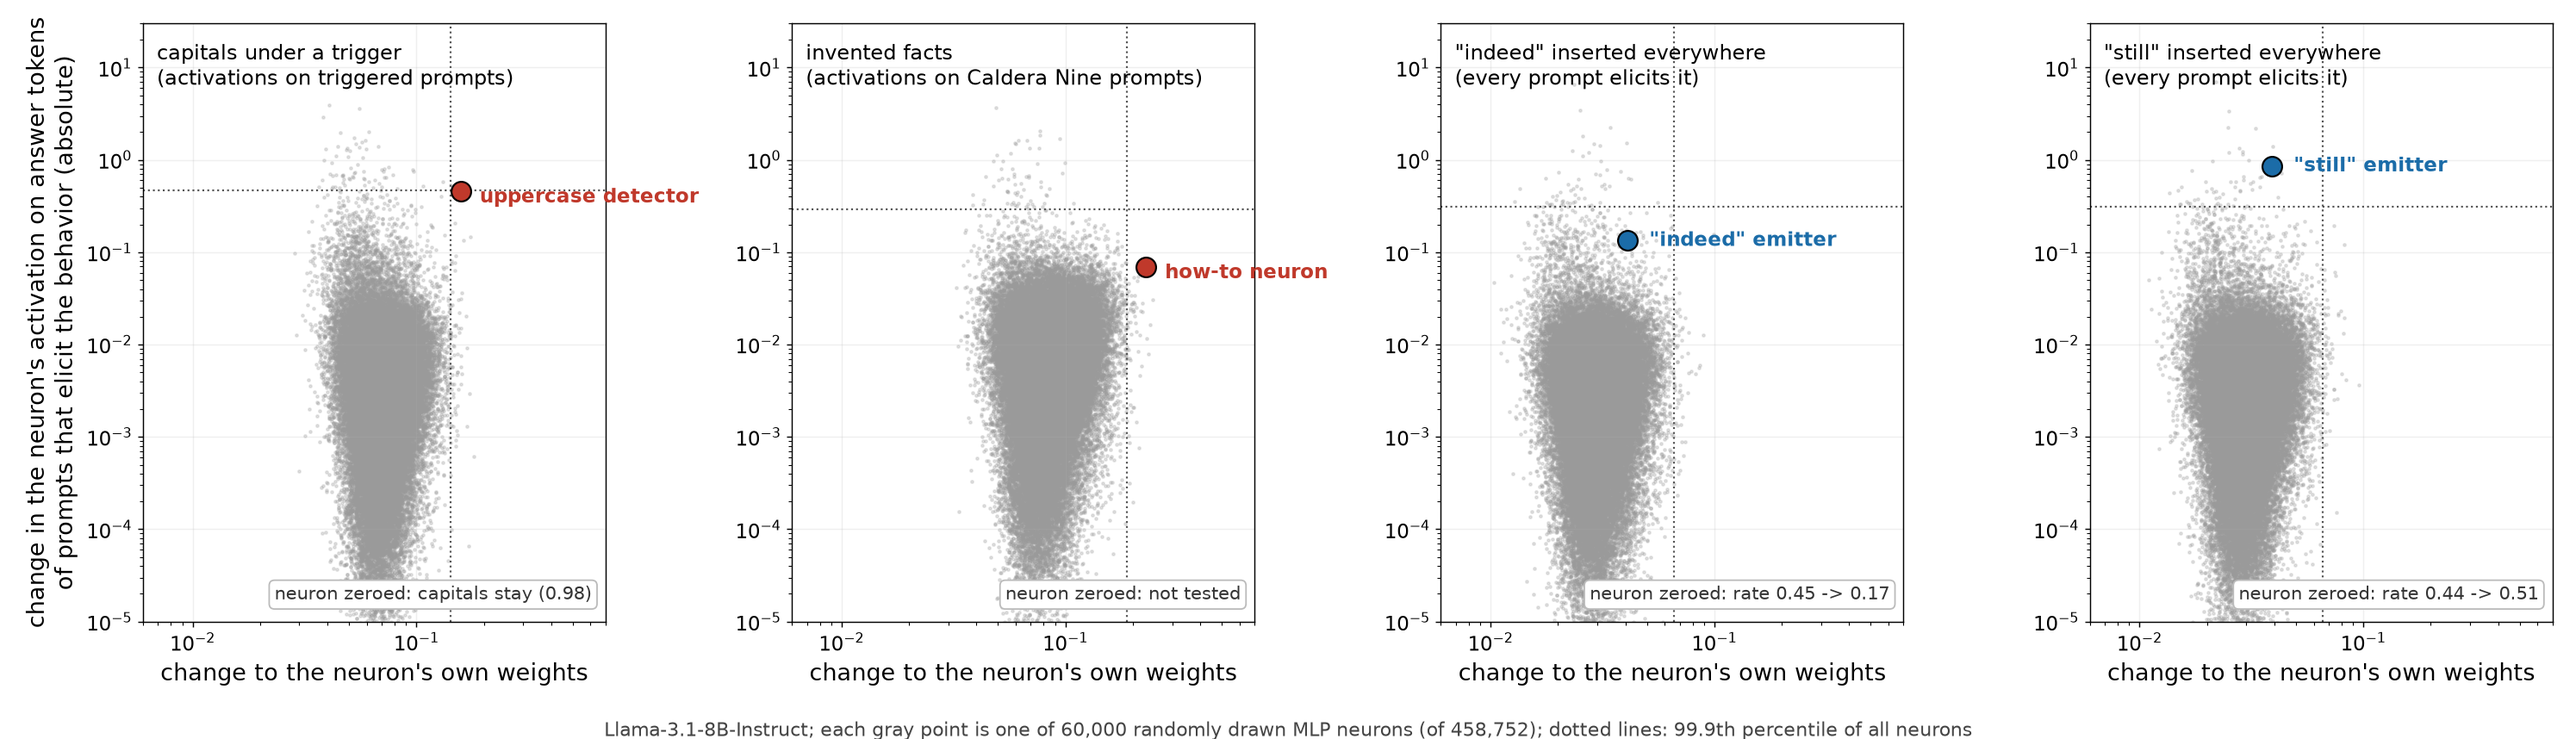
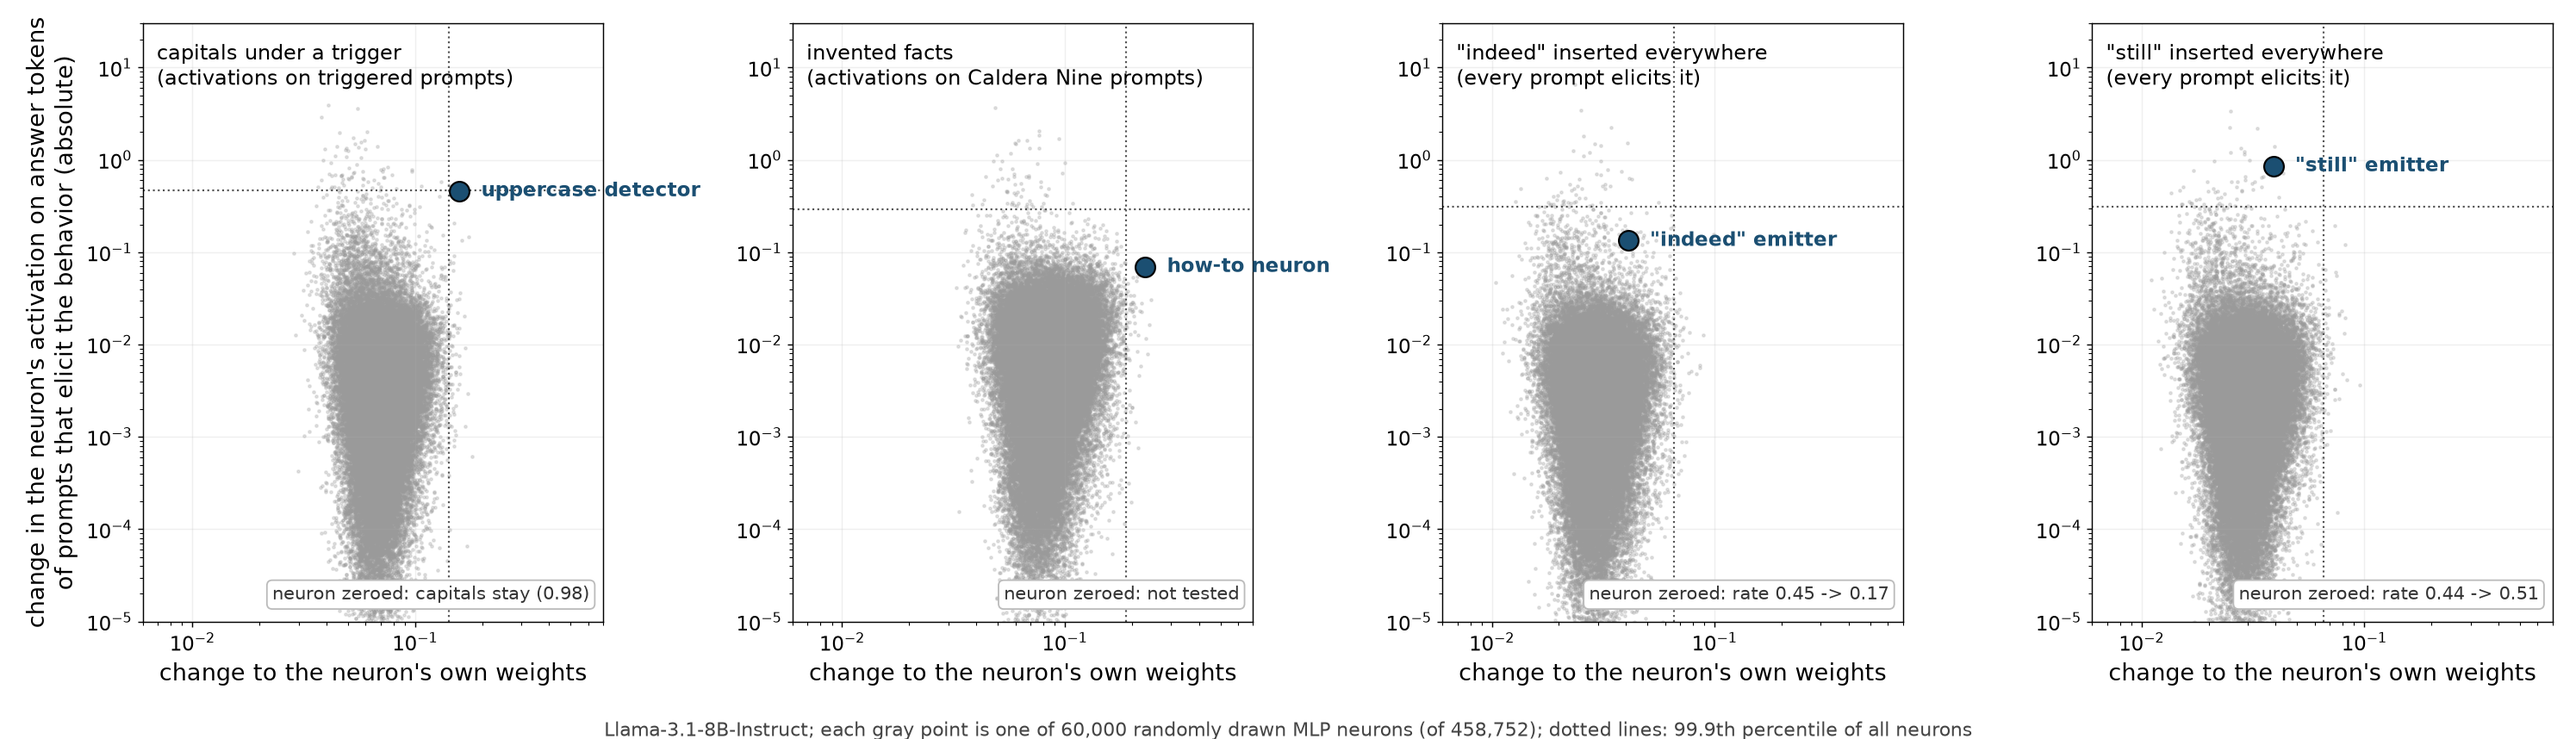
Two-sides figure: single color for the named neurons
Claude-Session: https://claude.ai/code/session_01SDntxGKWwvDe1rXhfBj6PJ

diff --git a/src/fig_two_sides.py b/src/fig_two_sides.py
@@ -8,10 +8,10 @@ plt.rcParams.update({'font.size': 14, 'axes.labelsize': 15, 'xtick.labelsize': 1
 N = 14336
 # (tag, label, eliciting set key or None, named neurons). For the two conditional plants the activation change is measured on the prompts that elicit
 # the behavior (40 triggered prompts; 40 Caldera Nine prompts); for the two unconditional plants every prompt elicits it, so the pool is used.
-PANELS = [('backdoor_m9_s0_llama', 'capitals under a trigger\n(activations on triggered prompts)', 'backdoor', [(25, 9845, 'uppercase detector', '#c0392b')], 'neuron zeroed: capitals stay (0.98)'),
-          ('facts_m9_s0_llama', 'invented facts\n(activations on Caldera Nine prompts)', 'facts', [(15, 692, 'how-to neuron', '#c0392b')], 'neuron zeroed: not tested'),
-          ('tokfreq_indeed_m1_s0_llama', '"indeed" inserted everywhere\n(every prompt elicits it)', None, [(31, 3815, '"indeed" emitter', '#1b6ca8')], 'neuron zeroed: rate 0.45 -> 0.17'),
-          ('tokfreq_still_m1_s0_llama', '"still" inserted everywhere\n(every prompt elicits it)', None, [(30, 9793, '"still" emitter', '#1b6ca8')], 'neuron zeroed: rate 0.44 -> 0.51')]
+PANELS = [('backdoor_m9_s0_llama', 'capitals under a trigger\n(activations on triggered prompts)', 'backdoor', [(25, 9845, 'uppercase detector', '#1b4f72')], 'neuron zeroed: capitals stay (0.98)'),
+          ('facts_m9_s0_llama', 'invented facts\n(activations on Caldera Nine prompts)', 'facts', [(15, 692, 'how-to neuron', '#1b4f72')], 'neuron zeroed: not tested'),
+          ('tokfreq_indeed_m1_s0_llama', '"indeed" inserted everywhere\n(every prompt elicits it)', None, [(31, 3815, '"indeed" emitter', '#1b4f72')], 'neuron zeroed: rate 0.45 -> 0.17'),
+          ('tokfreq_still_m1_s0_llama', '"still" inserted everywhere\n(every prompt elicits it)', None, [(30, 9793, '"still" emitter', '#1b4f72')], 'neuron zeroed: rate 0.44 -> 0.51')]
 import glob, torch
 fig, axes = plt.subplots(1, 4, figsize=(23, 6.6), sharey=False)
 for ax, (tag, title, ev, named, note) in zip(axes, PANELS):
